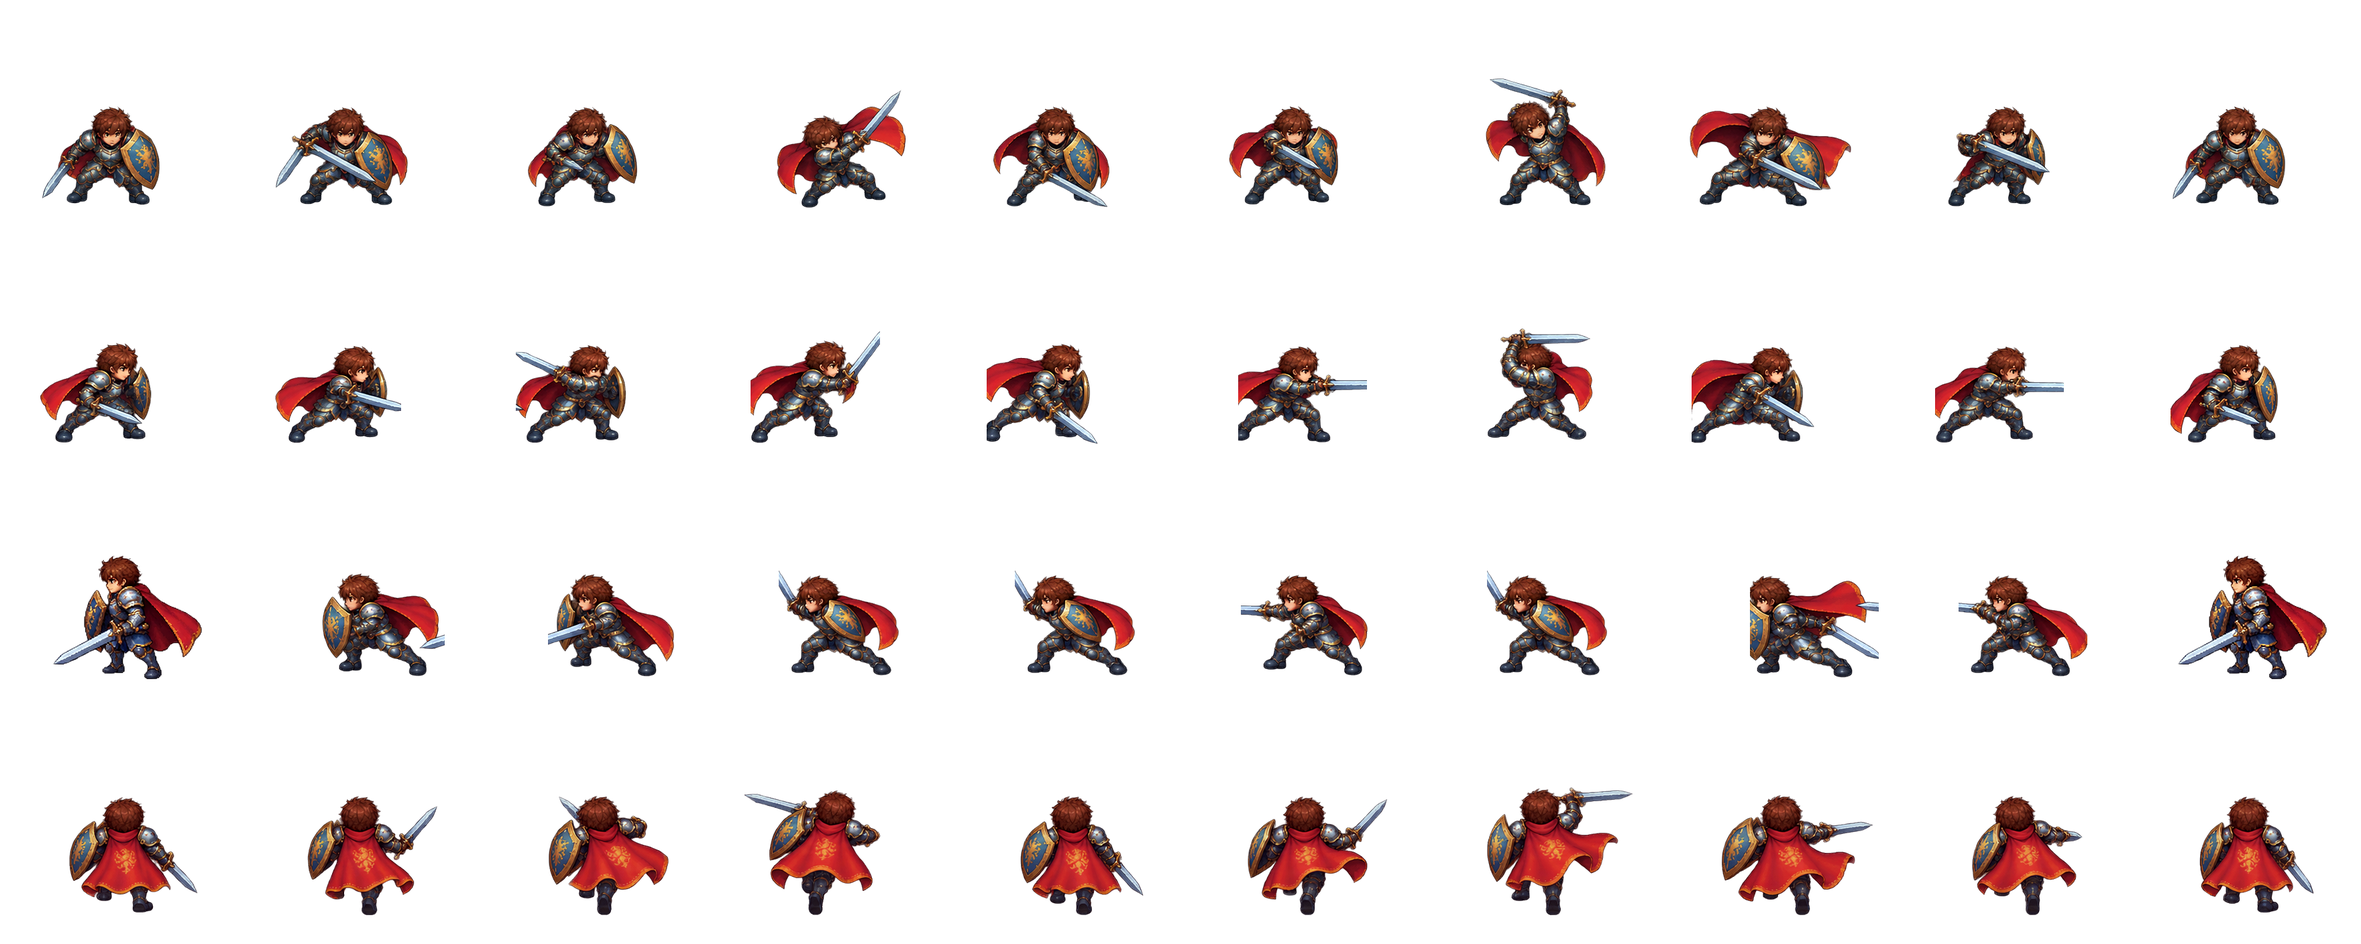
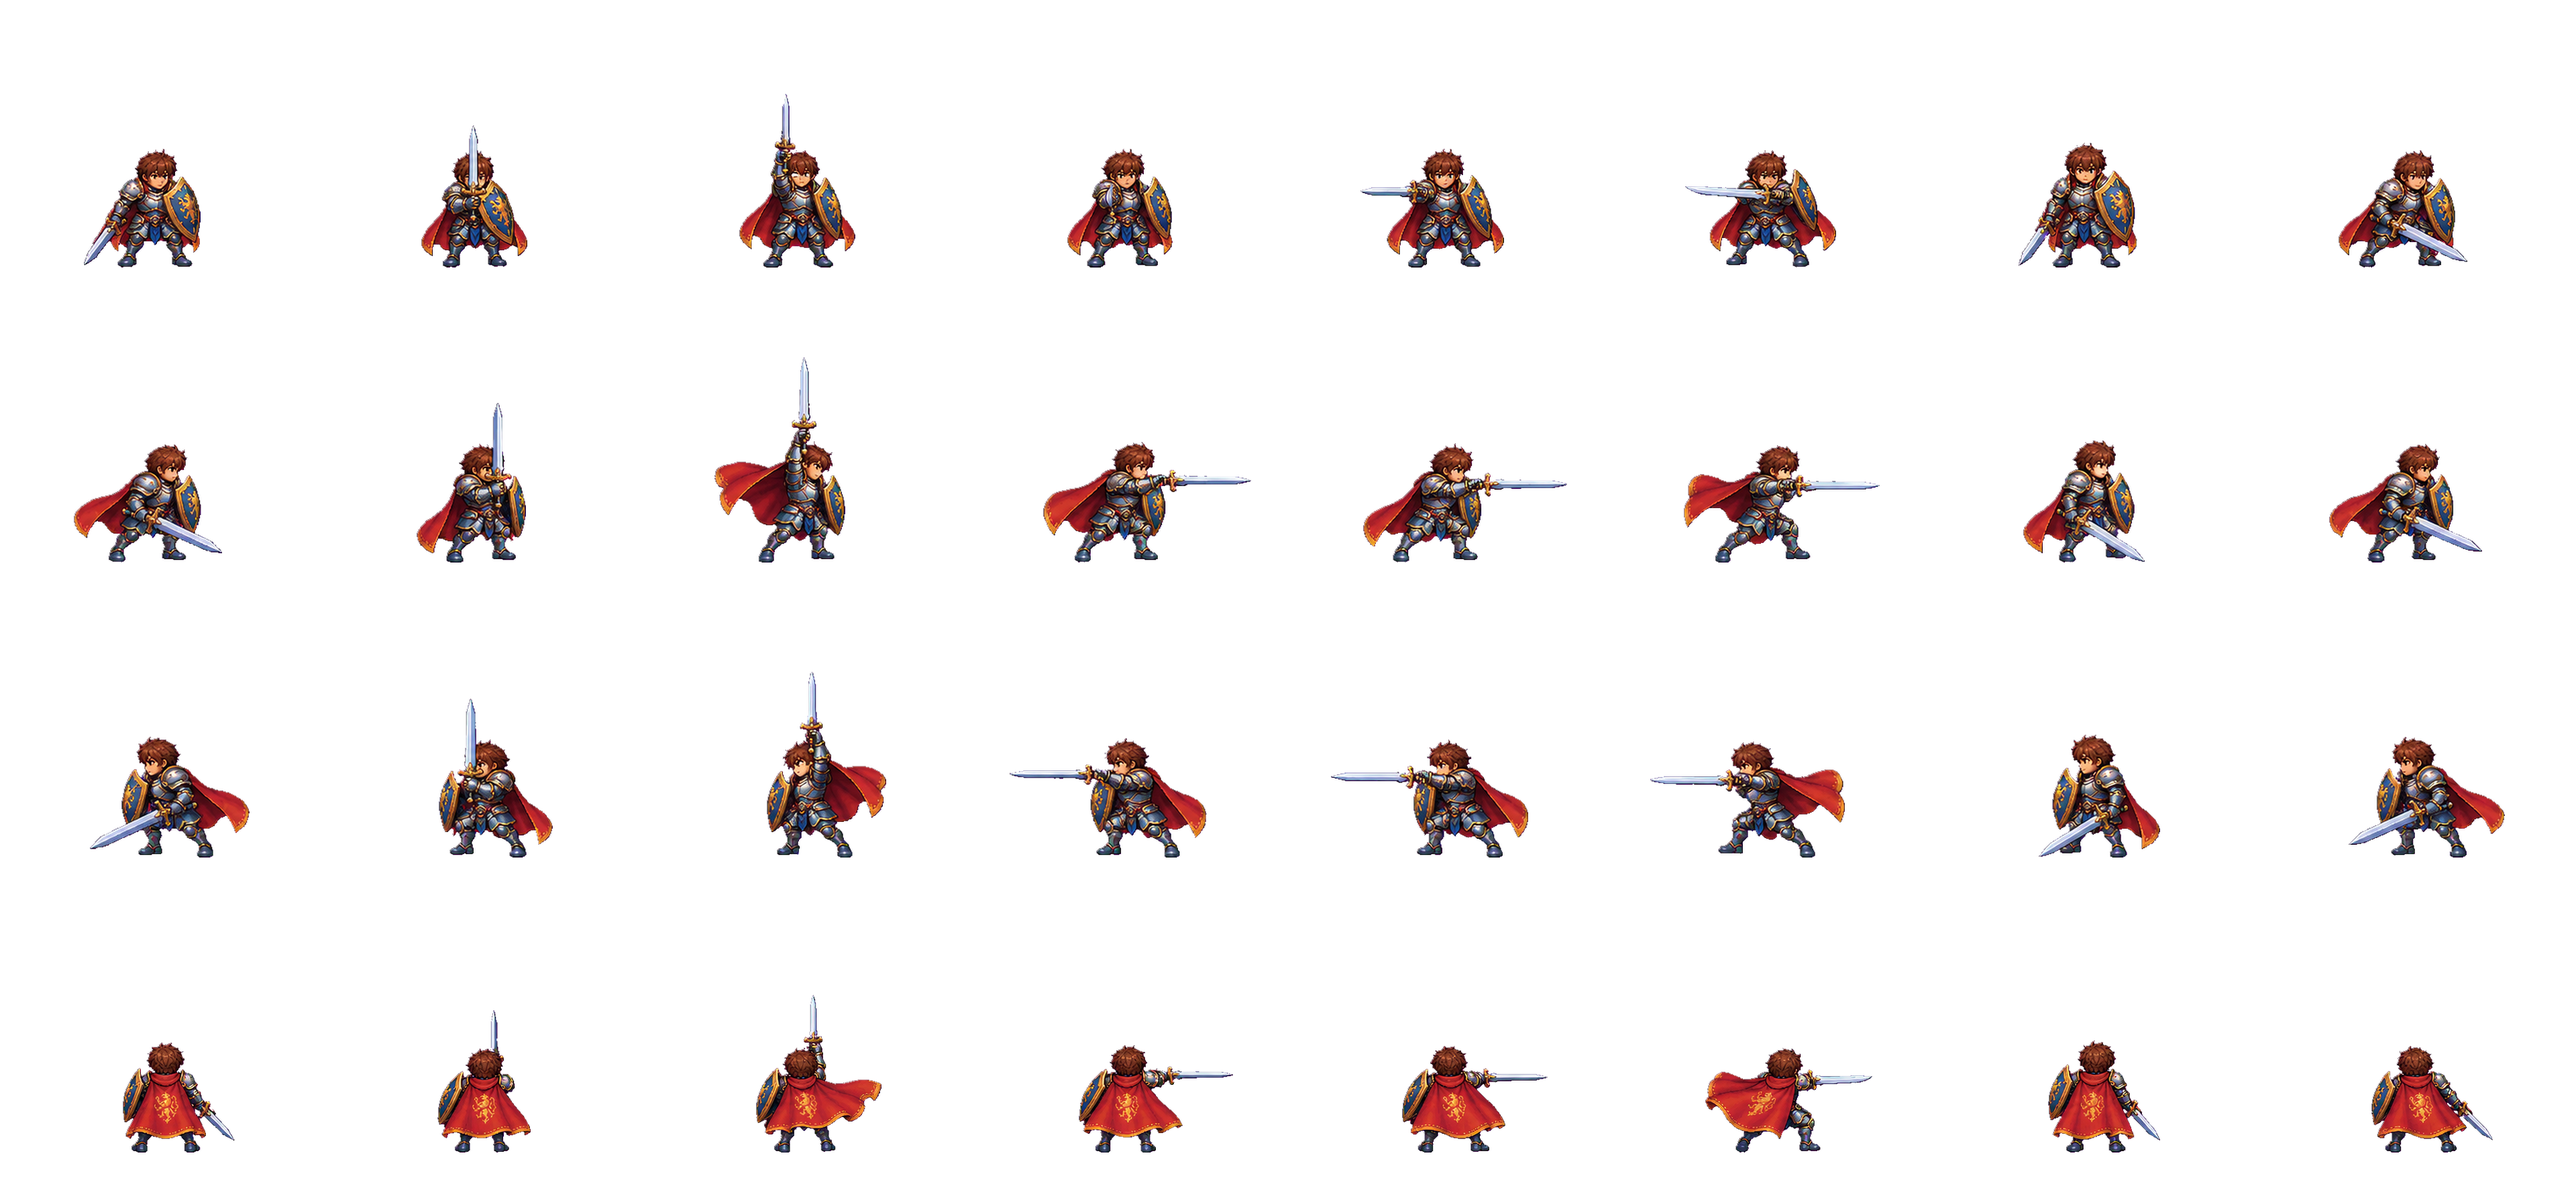
Blade Storm body: new 8-frame art in all 4 directions
Claude-Session: https://claude.ai/code/session_019q8CMrxghbNzj8w42KsHoP

diff --git a/src/game/Body.ts b/src/game/Body.ts
@@ -170,7 +170,8 @@ const SKILL_PLAN: Record<string, { st: number[]; ac: number[]; rc: number[] }> =
   rising_slash: { st: [0, 1, 2], ac: [3, 3, 4, 4, 5], rc: [5, 6, 7] },
   ground_breaker: { st: [0, 1, 2, 2, 3], ac: [4, 5, 5, 5], rc: [5, 6, 7] },
   dash_slash: { st: [0, 1], ac: [2, 3, 4, 5], rc: [6, 7] },
-  shield_slam: { st: [0, 1, 2], ac: [3, 3, 4, 4, 5], rc: [6, 7] } };
+  shield_slam: { st: [0, 1, 2], ac: [3, 3, 4, 4, 5], rc: [6, 7] },
+  blade_storm: { st: [0, 1, 2, 2], ac: [3, 4, 4, 5], rc: [5, 6, 7] } };
 
 function skillColumn(cols: number, q: Extract<PoseQuery, { k: 'skill' }>, offset: number): number {
   const { elapsed: e, startup: s, active: a, recovery: r } = q;
